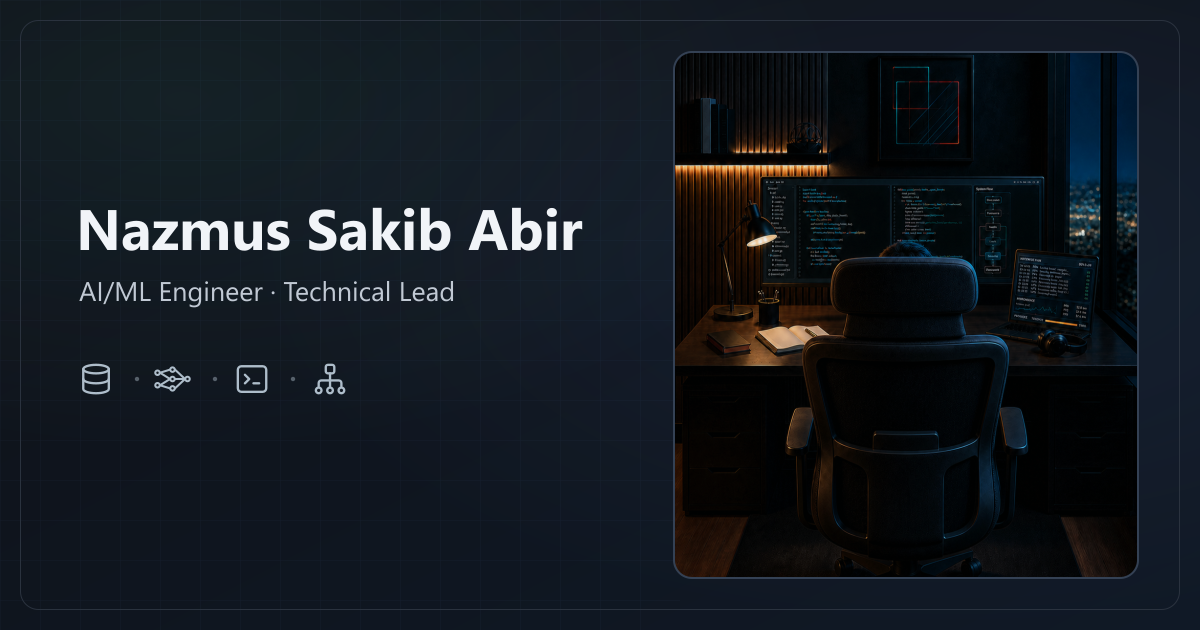
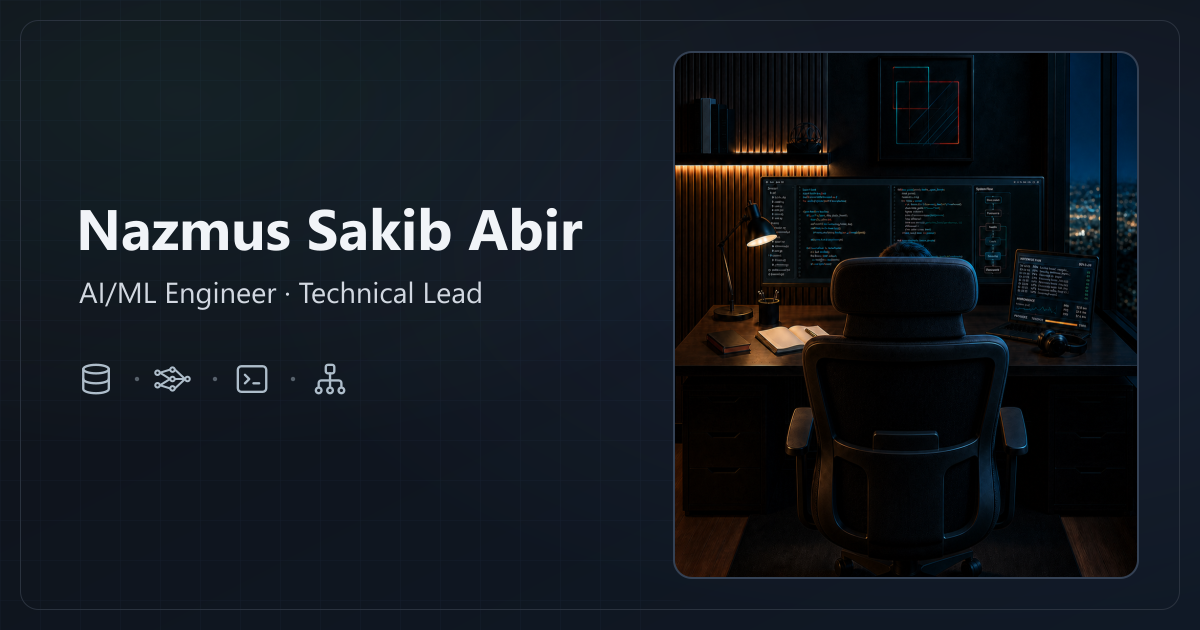
Add portfolio SEO and social metadata

Changed region(s): [[0.0617, 0.4222, 0.4008, 0.4825]]

diff --git a/src/pages/sitemap.xml.ts b/src/pages/sitemap.xml.ts
@@ -1,0 +1,16 @@
+import type { APIRoute } from 'astro';
+
+export const GET: APIRoute = ({ site }) => {
+  const homepageUrl = new URL(import.meta.env.BASE_URL, site).href;
+  const sitemap = `<?xml version="1.0" encoding="UTF-8"?>
+<urlset xmlns="http://www.sitemaps.org/schemas/sitemap/0.9">
+  <url>
+    <loc>${homepageUrl}</loc>
+  </url>
+</urlset>
+`;
+
+  return new Response(sitemap, {
+    headers: { 'Content-Type': 'application/xml; charset=utf-8' },
+  });
+};

diff --git a/src/pages/robots.txt.ts b/src/pages/robots.txt.ts
@@ -1,0 +1,13 @@
+import type { APIRoute } from 'astro';
+
+export const GET: APIRoute = ({ site }) => {
+  const sitemapUrl = new URL(
+    'sitemap.xml',
+    new URL(import.meta.env.BASE_URL, site),
+  );
+
+  return new Response(
+    [`User-agent: *`, `Allow: /`, `Sitemap: ${sitemapUrl.href}`, ``].join('\n'),
+    { headers: { 'Content-Type': 'text/plain; charset=utf-8' } },
+  );
+};
